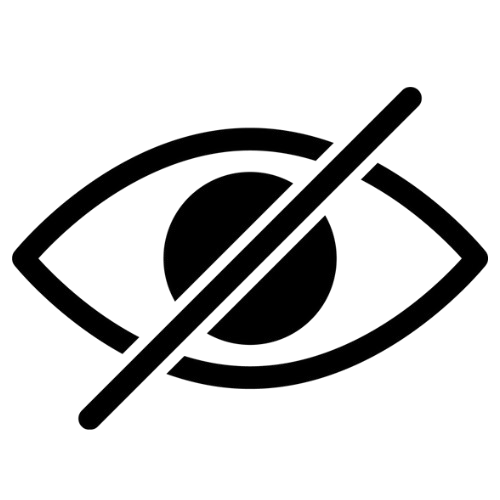
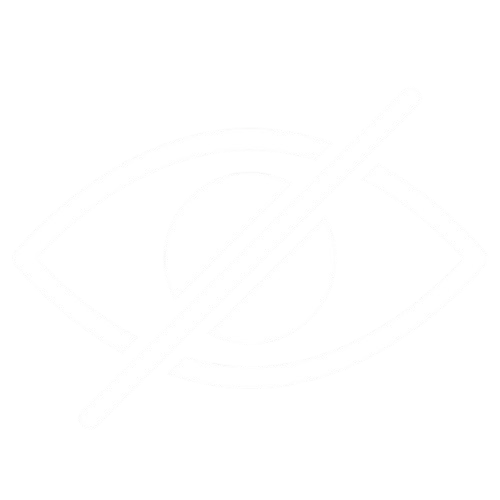
Added show password toggle

Changed region(s): [[0.0, 0.15, 0.99, 0.87]]

diff --git a/login.html b/login.html
@@ -12,11 +12,19 @@
             <main>
                 <section id="login-section">
                     <div class="login-container">
-                        <img class="logo" src="res/download_icon.png">
+                        <br>
+                        <img class="logo" src="res/icon.png">
                         <h3>Log in to your Account</h3>
                         <form id="logIn_Form">
-                            <input id="user_login" type="text" placeholder="Username or email"/><br>
-                            <input class="password_field" id="password_login" type="text" placeholder="Password"/><br>
+                            <div class="inputbox-wrapper">
+                                <input id="user_login" type="text" placeholder="Username or email"/>
+                            </div>
+                            <div class="inputbox-wrapper">
+                                <input class="password_field" id="password_login" type="password" placeholder="Password"/>
+                                <button id="login-pwtoggle" class="visibility-toggle" type="button">
+                                    <img id="showPW-login" class="showPW-icon" src="res/blind_icon.png">
+                                </button>
+                            </div>
                             <button type="submit">Log in</button>
                         </form>
                         <a href="password_reset.html">Forgot Password?</a>
@@ -27,13 +35,28 @@
                 </section>
                 <section id="signup-section">
                     <div class="login-container">
-                        <img class="logo" src="res/download_icon.png">
+                        <br>
+                        <img class="logo" src="res/icon.png">
                         <h3>Create a new fresh Account</h3>
                         <form id="signUp_Form">
-                            <input id="email_signUp" type="email" placeholder="Email"/><br>
-                            <input class="username_field" id="username_signUp" type="text" placeholder="Username"/><br>
-                            <input class="password_field" id="password_signUp" type="text" placeholder="Password"/><br>
-                            <input class="password_field" id="repeatpassword_signUp" type="text" placeholder="Repeat Password"/><br>
+                            <div class="inputbox-wrapper">
+                                <input id="email_signUp" type="email" placeholder="Email"/>
+                            </div>
+                            <div class="inputbox-wrapper">
+                                <input class="username_field" id="username_signUp" type="text" placeholder="Username"/><br>
+                            </div>
+                            <div class="inputbox-wrapper">
+                                <input class="password_field" id="password_signUp" type="password" placeholder="Password"/>
+                                <button id="signup-pwtoggle" class="visibility-toggle" type="button">
+                                    <img id="showPW-signup" class="showPW-icon" src="res/blind_icon.png">
+                                </button>
+                            </div>
+                            <div class="inputbox-wrapper">
+                                <input class="password_field" id="repeatpassword_signUp" type="password" placeholder="Repeat Password"/>
+                                <button id="repeatpw-toggle" class="visibility-toggle" type="button">
+                                    <img id="showPW-repeat" class="showPW-icon" src="res/blind_icon.png">
+                                </button>
+                            </div>
                             <button type="submit">Sign up</button>
                         </form>
                     </div>

diff --git a/login-style.css b/login-style.css
@@ -65,9 +65,7 @@ section{
 
 .login-container{
     border:  rgba(255, 255, 255, 0.1) solid;
-    padding: 1vh;
-    padding-top: 2vh;
-    padding-bottom: 2vh;
+    padding: 2vh 1vh 2vh 1vh;
     background-color: rgba(0, 0, 0, 0.2);
     border-radius: 2vh;
     width: 20vw;
@@ -82,6 +80,52 @@ a{
     text-decoration: none;
 }
 
+form input{
+    width: 14vw;
+    height: 3vh;
+    padding: 0.5vh;
+    margin-bottom: 1vh;
+    border-radius: 0.6vh;
+    background-color: rgba(255, 255, 255, 0.1);
+    color: white;
+    border:  rgba(255, 255, 255, 0.1) solid;
+}
+
+.inputbox-wrapper{
+    display: flex;
+    width: 14vw;
+    height: 3.5vh;
+    padding: 0.25vh;
+    border-radius: 0.6vh;
+    background-color: rgba(255, 255, 255, 0.1);
+    border:  rgba(255, 255, 255, 0.1) solid;
+    margin: auto auto 1vh auto;
+    text-align: left;
+
+}
+
+.inputbox-wrapper input{
+    width: 90%;
+    background-color: transparent;
+    color: white;
+    border:  none;
+    outline: none;
+}
+
+.visibility-toggle{
+    width: 20%;
+    margin: 0;
+    border: none;
+    outline: none;
+    background: none;
+}
+
+.showPW-icon {
+    width: 100%;
+    height: 100%;
+}
+
+
 .login-container p a{
     color: rgb(0, 81, 255);
     text-decoration: none;
@@ -90,16 +134,6 @@ a{
 a:hover{
     color: rgba(255, 255, 255, 0.747);
     text-decoration: none;
-}
-
-form input{
-    width: 14vw;
-    padding: 0.5vh;
-    margin-bottom: 1vh;
-    border-radius: 0.6vh;
-    background-color: rgba(255, 255, 255, 0.1);
-    color: white;
-    border:  rgba(255, 255, 255, 0.1) solid;
 }
 
 .logo{

diff --git a/password_reset.html b/password_reset.html
@@ -12,11 +12,14 @@
             <main>
                 <section id="enter-email-section">
                     <div class="login-container">
-                        <img class="logo" src="res/download_icon.png">
+                        <br>
+                        <img class="logo" src="res/icon.png">
                         <h3>Having trouble logging in?</h3>
                         <p>Send us your email so we can hook you up in resetting your password.</p>
                         <form id="emailPWreset_form">
-                            <input id="user_email" type="text" placeholder="Email"/><br>
+                            <div class="inputbox-wrapper">
+                                <input id="user_email" type="text" placeholder="Email"/>
+                            </div>
                             <button type="submit">Reset Password</button>
                         </form>
                     </div>

diff --git a/login_script.js b/login_script.js
@@ -96,6 +96,22 @@ form_logIn.addEventListener('submit', async function(event){
 
 });
 
+function setupPasswordToggle(toggleBtnId, inputId, imgId) {
+    const input = document.getElementById(inputId);
+    const toggleBtn = document.getElementById(toggleBtnId);
+    const img = document.getElementById(imgId);
+
+    toggleBtn.addEventListener('click', () => {
+        const isPassword = input.type === 'password';
+        input.type = isPassword ? 'text' : 'password';
+        img.src = isPassword ? 'res/eye_icon.png' : 'res/blind_icon.png';
+    });
+}
+
+// Set up toggles for both password fields
+setupPasswordToggle("signup-pwtoggle", "password_signUp", "showPW-signup");
+setupPasswordToggle("repeatpw-toggle", "repeatpassword_signUp", "showPW-repeat");
+setupPasswordToggle("login-pwtoggle", "password_login", "showPW-login");
 
 
 function toggle(button) {
